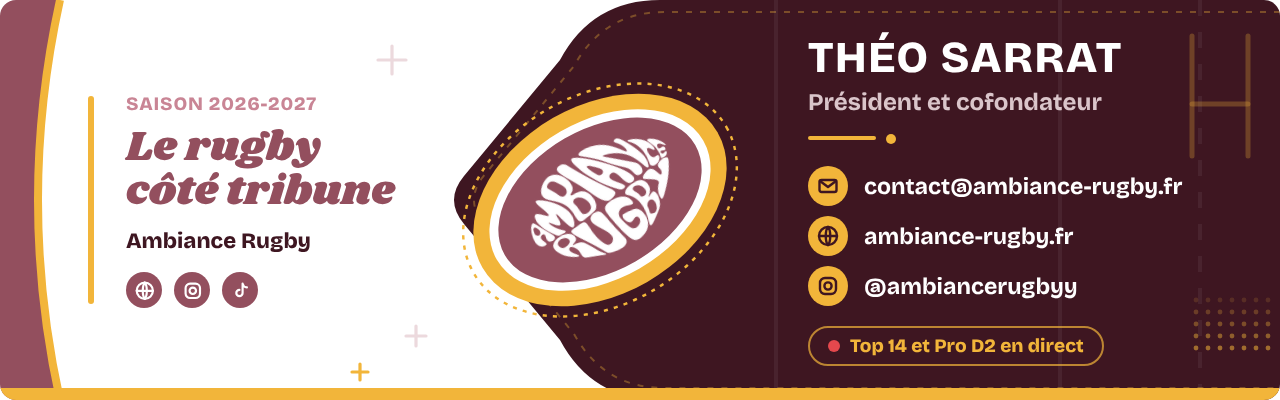
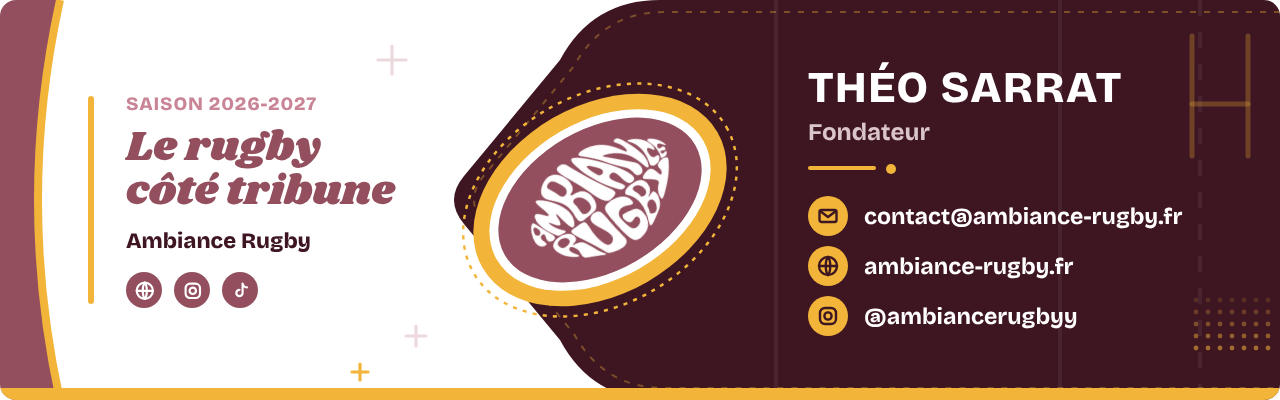
Signature mail : Fondateur, sans la pastille Top 14 / Pro D2
Claude-Session: https://claude.ai/code/session_01RZx3c7Kc5zeExxhfVQT62G

Changed region(s): [[0.625, 0.39, 0.9375, 0.93], [0.625, 0.09, 0.875, 0.36]]

diff --git a/public/signature/theo.html b/public/signature/theo.html
@@ -3,7 +3,7 @@
 <title>Signature mail</title>
 <style>body{margin:0;padding:32px 16px;background:#fcf7f8;font-family:Arial,Helvetica,sans-serif;color:#2a1419}.boite{max-width:660px;margin:0 auto}.carte{background:#fff;border:1px solid #ecd9dd;border-radius:16px;padding:24px}button{margin-top:16px;font:700 16px Arial,sans-serif;background:#934f5e;color:#fff;border:0;border-radius:999px;padding:12px 22px;cursor:pointer}p.aide{color:#7a6166;font-size:14px;line-height:1.5}</style></head>
 <body><div class="boite">
-<div class="carte" id="sig"><a href="https://ambiance-rugby.fr" style="text-decoration:none"><img src="https://ambiance-rugby.fr/signature/banniere.png?v=5" width="640" height="200" alt="Théo Sarrat, Président, Ambiance Rugby. contact@ambiance-rugby.fr, ambiance-rugby.fr, Instagram @ambiancerugbyy" style="display:block;border:0;width:100%;max-width:640px;height:auto"></a></div>
+<div class="carte" id="sig"><a href="https://ambiance-rugby.fr" style="text-decoration:none"><img src="https://ambiance-rugby.fr/signature/banniere.png?v=6" width="640" height="200" alt="Théo Sarrat, Fondateur, Ambiance Rugby. contact@ambiance-rugby.fr, ambiance-rugby.fr, Instagram @ambiancerugbyy" style="display:block;border:0;width:100%;max-width:640px;height:auto"></a></div>
 <button onclick="copier()">Copier la signature</button>
 <p class="aide" id="msg">Puis colle-la dans les réglages de signature de ta messagerie (Gmail, Outlook, Mail sur iPhone).</p>
 </div>
